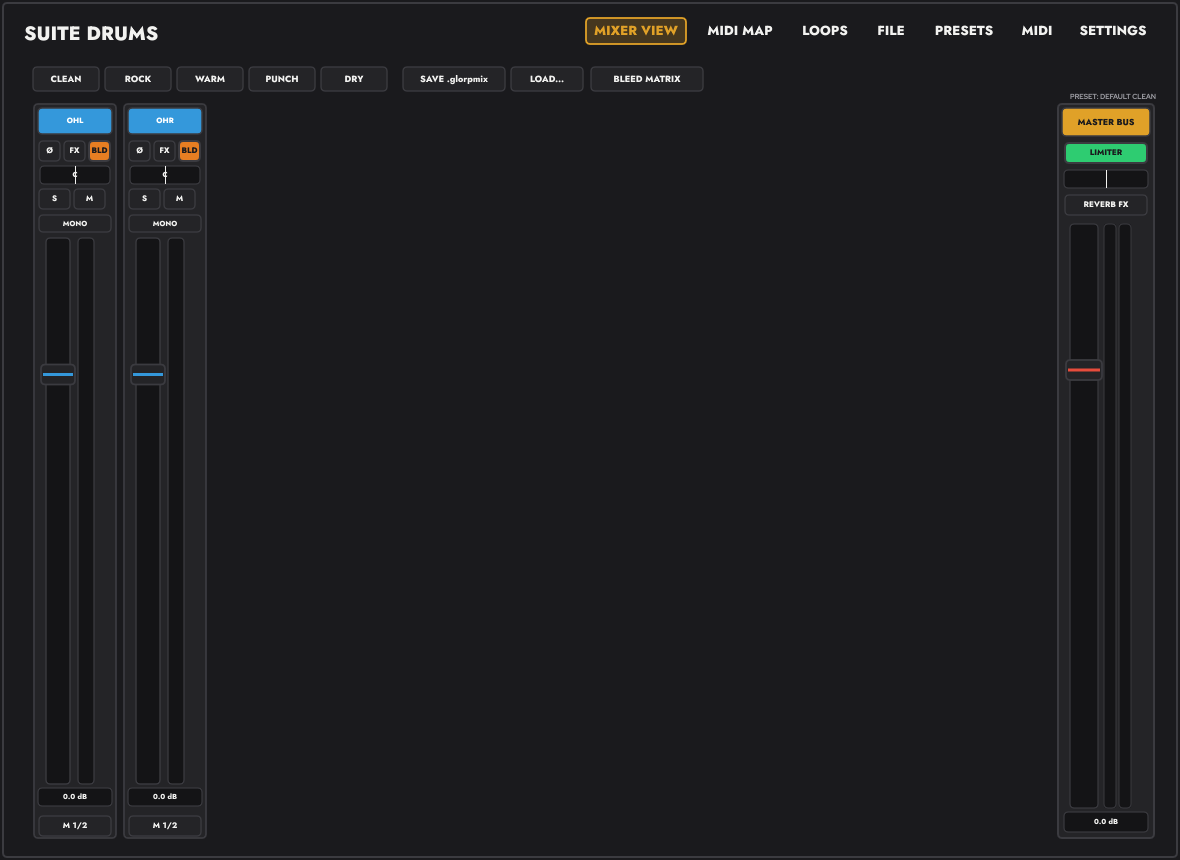
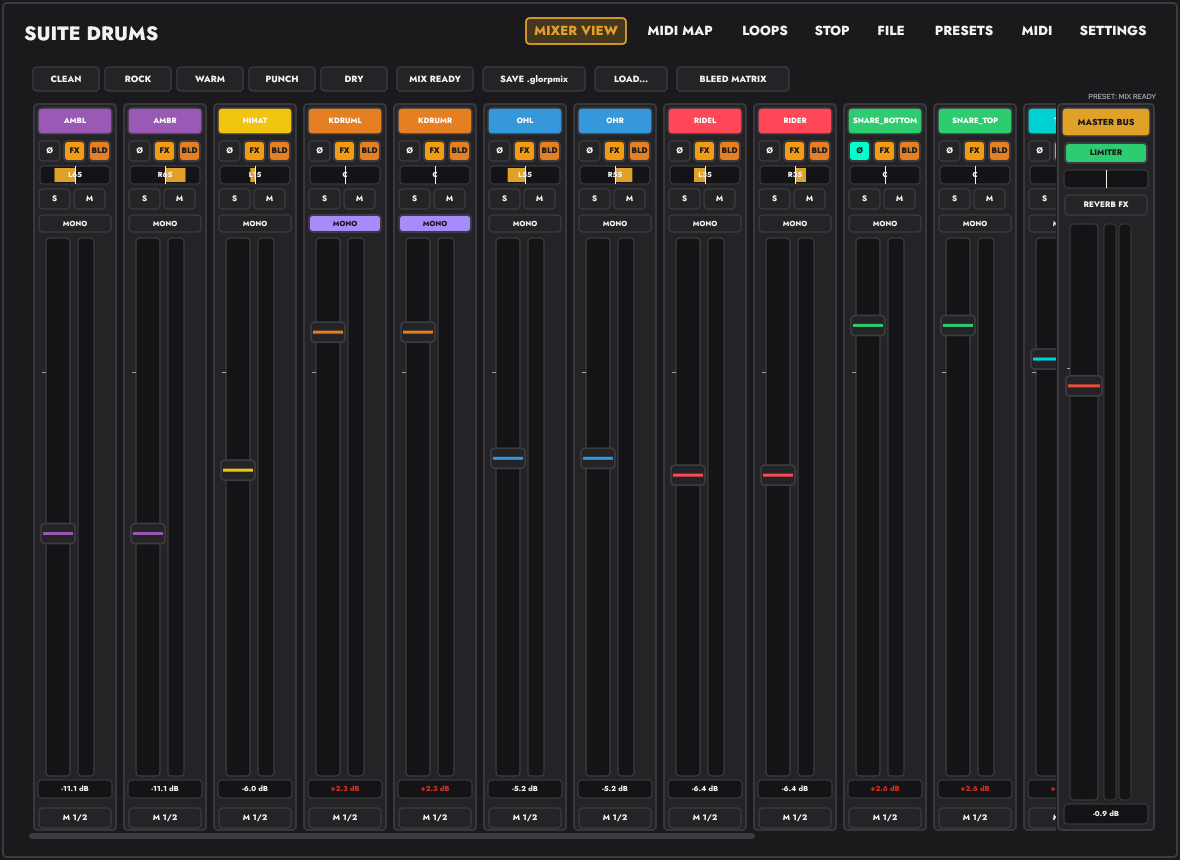
Add Mix Ready kit-adaptive mixer preset

diff --git a/src/core/ChannelFX.cpp b/src/core/ChannelFX.cpp
@@ -625,6 +625,175 @@ MixerPreset MixerPreset::createDryTight(int numMics, const std::vector<juce::Str
     return p;
 }
 
+MixerPreset MixerPreset::createMixReady(int numMics, const std::vector<juce::String> &names)
+{
+    MixerPreset p;
+    p.name = "Mix Ready";
+    p.master.level = 0.9f;
+    p.master.limiterEnabled = true;
+    p.master.reverbReturn = 0.12f;
+    p.master.reverbSize = 0.35f;
+    p.master.reverbDamp = 0.45f;
+    p.master.reverbWidth = 0.9f;
+    p.micNames = names;
+
+    p.micStrips.resize(static_cast<size_t>(numMics));
+
+    for (size_t i = 0; i < static_cast<size_t>(numMics); ++i)
+    {
+        const auto n = (i < names.size()) ? names[i].toLowerCase() : juce::String();
+        auto &s = p.micStrips[i];
+        s.level = 1.0f;
+        s.pan = 0.0f;
+        s.fxEnabled = true;
+        s.eqEnabled = true;
+        s.compEnabled = false;
+        s.reverbSend = 0.06f;
+
+        const bool isTrigger = n.contains("trigger");
+        const bool isKick = isTrigger || n.contains("kick") || n.contains("kdrum") || n.contains("bdrum");
+        const bool isSnare = n.contains("snare") || n.contains("snr");
+        const bool isHat = n.contains("hihat") || n.contains("hh") || n.contains("hat");
+        const bool isCymbal = n.contains("ride") || n.contains("crash") || n.contains("china") || n.contains("splash")
+                               || n.contains("cymbal") || n.contains("zilbel") || n.contains("bell");
+        const bool isOverhead = n.contains("overhead") || n.contains("oh");
+        const bool isRoom = n.contains("amb") || n.contains("room") || n.contains("pzm");
+        const bool isTom = n.contains("tom") || n.contains("floor");
+
+        const bool centered = n.contains("center") || n.contains("centre") || n.contains("mono");
+        const bool left = !centered
+                          && (n.endsWith("l") || n.contains("left") || n.contains("_l") || n.contains("ohl")
+                              || n.contains("ambl"));
+        const bool right = !centered
+                           && (n.endsWith("r") || n.contains("right") || n.contains("_r") || n.contains("ohr")
+                               || n.contains("ambr"));
+
+        if (isKick)
+        {
+            s.level = isTrigger ? 1.45f : 1.30f;
+            s.mono = true;
+            s.eqLowGainDb = 4.0f;
+            s.eqMidGainDb = isTrigger ? -6.0f : -3.0f;
+            s.eqMidFreq = isTrigger ? 700.0f : 400.0f;
+            s.eqHighGainDb = isTrigger ? 5.0f : 2.5f;
+            s.compEnabled = true;
+            s.compThresholdDb = isTrigger ? -12.0f : -18.0f;
+            s.compRatio = isTrigger ? 6.0f : 4.0f;
+            s.compAttackMs = isTrigger ? 2.0f : 20.0f;
+            s.compReleaseMs = isTrigger ? 50.0f : 90.0f;
+            s.compMakeupDb = isTrigger ? 3.0f : 2.0f;
+            s.saturationDrive = isTrigger ? 0.25f : 0.15f;
+            s.transientAttack = isTrigger ? 0.45f : 0.30f;
+            s.transientSustain = -0.15f;
+            s.reverbSend = 0.0f;
+        }
+        else if (isSnare)
+        {
+            s.level = 1.35f;
+            s.eqLowGainDb = 1.5f;
+            s.eqMidGainDb = 2.5f;
+            s.eqMidFreq = 1800.0f;
+            s.eqHighGainDb = 3.5f;
+            s.compEnabled = true;
+            s.compThresholdDb = -16.0f;
+            s.compRatio = 3.5f;
+            s.compAttackMs = 15.0f;
+            s.compReleaseMs = 120.0f;
+            s.compMakeupDb = 2.0f;
+            s.saturationDrive = 0.20f;
+            s.transientAttack = 0.35f;
+            s.transientSustain = -0.05f;
+            s.reverbSend = 0.12f;
+
+            if (n.contains("bottom") || n.contains("bot") || n.contains("under"))
+                s.phaseInvert = true;
+        }
+        else if (isTom)
+        {
+            s.level = 1.10f;
+            s.eqLowGainDb = 2.0f;
+            s.eqMidGainDb = -1.5f;
+            s.eqMidFreq = 500.0f;
+            s.eqHighGainDb = 1.0f;
+            s.compEnabled = true;
+            s.compThresholdDb = -18.0f;
+            s.compRatio = 3.0f;
+            s.compAttackMs = 20.0f;
+            s.compReleaseMs = 120.0f;
+            s.compMakeupDb = 1.0f;
+            s.saturationDrive = 0.10f;
+            s.transientAttack = 0.20f;
+            s.reverbSend = 0.06f;
+        }
+        else if (isHat)
+        {
+            s.level = 0.50f;
+            s.eqLowGainDb = -8.0f;
+            s.eqMidGainDb = -1.5f;
+            s.eqMidFreq = 3000.0f;
+            s.eqHighGainDb = -1.5f;
+            s.compEnabled = true;
+            s.compThresholdDb = -22.0f;
+            s.compRatio = 2.0f;
+            s.compAttackMs = 5.0f;
+            s.compReleaseMs = 80.0f;
+            s.transientAttack = -0.10f;
+            s.reverbSend = 0.06f;
+            s.pan = left ? -0.25f : (right ? 0.25f : -0.15f);
+        }
+        else if (isCymbal)
+        {
+            s.level = 0.48f;
+            s.eqLowGainDb = -9.0f;
+            s.eqMidGainDb = -2.0f;
+            s.eqMidFreq = 3500.0f;
+            s.eqHighGainDb = -2.0f;
+            s.compEnabled = true;
+            s.compThresholdDb = -22.0f;
+            s.compRatio = 2.0f;
+            s.compAttackMs = 5.0f;
+            s.compReleaseMs = 120.0f;
+            s.transientAttack = -0.15f;
+            s.reverbSend = 0.08f;
+            s.pan = left ? -0.35f : (right ? 0.35f : 0.0f);
+        }
+        else if (isOverhead)
+        {
+            s.level = 0.55f;
+            s.eqLowGainDb = -8.0f;
+            s.eqMidGainDb = -1.0f;
+            s.eqMidFreq = 2500.0f;
+            s.eqHighGainDb = 0.5f;
+            s.compEnabled = true;
+            s.compThresholdDb = -22.0f;
+            s.compRatio = 2.0f;
+            s.compAttackMs = 10.0f;
+            s.compReleaseMs = 120.0f;
+            s.saturationDrive = 0.05f;
+            s.reverbSend = 0.08f;
+            s.pan = left ? -0.55f : (right ? 0.55f : 0.0f);
+        }
+        else if (isRoom)
+        {
+            s.level = 0.28f;
+            s.eqLowGainDb = -10.0f;
+            s.eqMidGainDb = -2.0f;
+            s.eqMidFreq = 800.0f;
+            s.eqHighGainDb = -2.0f;
+            s.compEnabled = true;
+            s.compThresholdDb = -24.0f;
+            s.compRatio = 2.5f;
+            s.compAttackMs = 10.0f;
+            s.compReleaseMs = 180.0f;
+            s.saturationDrive = 0.08f;
+            s.reverbSend = 0.05f;
+            s.pan = left ? -0.65f : (right ? 0.65f : 0.0f);
+        }
+    }
+
+    return p;
+}
+
 //==============================================================================
 // XML Serialization
 //==============================================================================

diff --git a/src/ui/MixerView.cpp b/src/ui/MixerView.cpp
@@ -2130,6 +2130,7 @@ MixerView::MixerView(PluginProcessor &proc) : processor(proc)
     presetWarmBtn.onClick = [this]() { applyPreset(2); };
     presetPunchBtn.onClick = [this]() { applyPreset(3); };
     presetDryBtn.onClick = [this]() { applyPreset(4); };
+    presetMixBtn.onClick = [this]() { applyPreset(5); };
 
     savePresetBtn.onClick = [this]() { promptSavePreset(); };
     loadPresetBtn.onClick = [this]() { promptLoadPreset(); };
@@ -2139,6 +2140,7 @@ MixerView::MixerView(PluginProcessor &proc) : processor(proc)
     addAndMakeVisible(presetWarmBtn);
     addAndMakeVisible(presetPunchBtn);
     addAndMakeVisible(presetDryBtn);
+    addAndMakeVisible(presetMixBtn);
     addAndMakeVisible(savePresetBtn);
     addAndMakeVisible(loadPresetBtn);
 
@@ -2277,6 +2279,10 @@ void MixerView::applyPreset(int presetIndex)
             p = MixerPreset::createDryTight(numMics, names);
             activePresetName = "Dry & Tight";
             break;
+        case 5:
+            p = MixerPreset::createMixReady(numMics, names);
+            activePresetName = "Mix Ready";
+            break;
         default:
             break;
     }
@@ -2397,10 +2403,11 @@ void MixerView::resized()
     presetWarmBtn.setBounds(160, btnY, 68, btnH);
     presetPunchBtn.setBounds(232, btnY, 68, btnH);
     presetDryBtn.setBounds(304, btnY, 68, btnH);
+    presetMixBtn.setBounds(380, btnY, 78, btnH);
 
-    savePresetBtn.setBounds(386, btnY, 104, btnH);
-    loadPresetBtn.setBounds(494, btnY, 74, btnH);
-    bleedMatrixBtn.setBounds(574, btnY, 114, btnH);
+    savePresetBtn.setBounds(466, btnY, 104, btnH);
+    loadPresetBtn.setBounds(578, btnY, 74, btnH);
+    bleedMatrixBtn.setBounds(660, btnY, 114, btnH);
 
     // Channel Area vs Master Strip
     const float contentY = 46.0f;
@@ -2474,6 +2481,7 @@ void MixerView::setTheme(const Theme &newTheme)
     presetWarmBtn.setTheme(theme);
     presetPunchBtn.setTheme(theme);
     presetDryBtn.setTheme(theme);
+    presetMixBtn.setTheme(theme);
     savePresetBtn.setTheme(theme);
     loadPresetBtn.setTheme(theme);
     bleedMatrixBtn.setTheme(theme);

diff --git a/test/test_editor.cpp b/test/test_editor.cpp
@@ -147,6 +147,45 @@ int main (int argc, char** argv)
             return 0;
         }
 
+        if (juce::String (viewEnv).equalsIgnoreCase ("mixer-mixready"))
+        {
+            for (auto* child : pluginEditor->getChildren())
+            {
+                if (auto* ed = dynamic_cast<glorp::Editor*> (child))
+                    ed->setViewMode (glorp::Editor::EditorView::mixerView);
+            }
+
+            std::function<void (juce::Component*)> clickByName = [&] (juce::Component* c)
+            {
+                for (auto* sub : c->getChildren())
+                {
+                    if (auto* b = dynamic_cast<juce::Button*> (sub))
+                    {
+                        if (b->getButtonText() == "MIX READY")
+                        {
+                            if (b->onClick)
+                                b->onClick();
+                            return;
+                        }
+                    }
+                    clickByName (sub);
+                }
+            };
+            clickByName (pluginEditor);
+
+            auto image = pluginEditor->createComponentSnapshot (pluginEditor->getLocalBounds());
+            juce::File outFile ("test/docs/mixer_mixready.png");
+            outFile.deleteFile();
+            juce::FileOutputStream fos (outFile);
+            if (fos.openedOk())
+            {
+                juce::PNGImageFormat png;
+                png.writeImageToStream (image, fos);
+                std::cout << "Saved Mix Ready snapshot to: " << outFile.getFullPathName().toStdString() << std::endl;
+            }
+            return 0;
+        }
+
         if (juce::String (viewEnv).equalsIgnoreCase ("mixer"))
         {
             for (auto* child : pluginEditor->getChildren())

diff --git a/test/audio_probe.cpp b/test/audio_probe.cpp
@@ -92,6 +92,23 @@ int main (int argc, char** argv)
         return 0;
     }
 
+    if (std::getenv ("GLORP_PROBE_MIXREADY") != nullptr)
+    {
+        std::vector<juce::String> names;
+        for (int i = 0; i < proc.getSampler().numMicStrips(); ++i)
+            names.push_back (proc.getSampler().micStripTitle (i));
+
+        auto preset = glorp::MixerPreset::createMixReady (static_cast<int> (names.size()), names);
+
+        for (size_t i = 0; i < preset.micStrips.size(); ++i)
+        {
+            const auto& s = preset.micStrips[i];
+            std::cout << names[i].toStdString() << " level=" << s.level << " mono=" << s.mono
+                      << " pan=" << s.pan << std::endl;
+        }
+        return 0;
+    }
+
     if (std::getenv ("GLORP_PROBE_BUSLINK") != nullptr)
     {
         int snareMic = -1;

diff --git a/src/core/ChannelFX.h b/src/core/ChannelFX.h
@@ -183,6 +183,7 @@ struct MixerPreset
     static MixerPreset createVintageWarmth(int numMics, const std::vector<juce::String> &names);
     static MixerPreset createPunchyStudio(int numMics, const std::vector<juce::String> &names);
     static MixerPreset createDryTight(int numMics, const std::vector<juce::String> &names);
+    static MixerPreset createMixReady(int numMics, const std::vector<juce::String> &names);
 
     juce::String toXmlString() const;
     static bool fromXmlString(const juce::String &xmlText, MixerPreset &outPreset);

diff --git a/src/ui/MixerView.h b/src/ui/MixerView.h
@@ -319,6 +319,7 @@ class MixerView
     HandButton presetWarmBtn {"WARM", false};
     HandButton presetPunchBtn {"PUNCH", false};
     HandButton presetDryBtn {"DRY", false};
+    HandButton presetMixBtn {"MIX READY", false};
     HandButton savePresetBtn {"SAVE .glorpmix"};
     HandButton loadPresetBtn {"LOAD..."};
 

diff --git a/README.md b/README.md
@@ -14,7 +14,7 @@
 - **One Suite theme**: dark charcoal, amber accent, Jost ExtraBold display type.
 - **Kit view** with zones, velocity layers, round-robin, drum-hit animation and MIDI activity ribbon.
 - **Per-piece controls** for level, pan, pitch and dynamic response.
-- **Mixer** with per-mic channels, solo/mute, mono/stereo switching, per-mic stems, linked instrument/mixer bus routing and master bus.
+- **Mixer** with per-mic channels, solo/mute, mono/stereo switching, per-mic stems, linked instrument/mixer bus routing, master bus and a **Mix Ready** preset for forward drums and controlled cymbals.
 - **Channel FX**: 3-band EQ, VCA compressor, tape saturation and transient shaper.
 - **MIDI mapping page**: up to three notes per hit, per-slot MIDI learn and an eight-point velocity curve editor.
 - **Piano-roll note names**: VST3 hosts show the current kit's drum names on mapped note keys.
